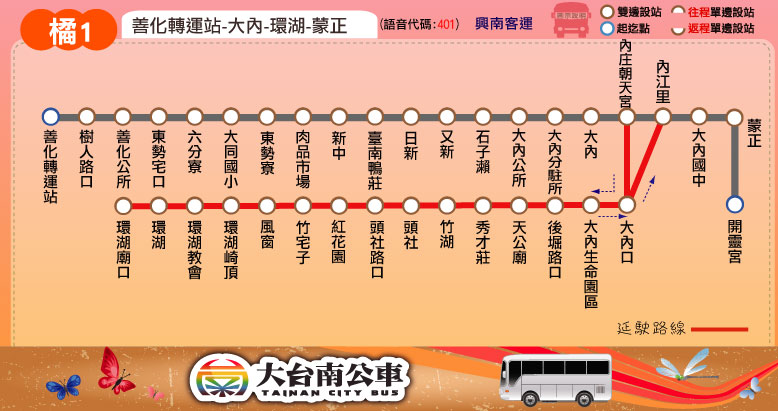
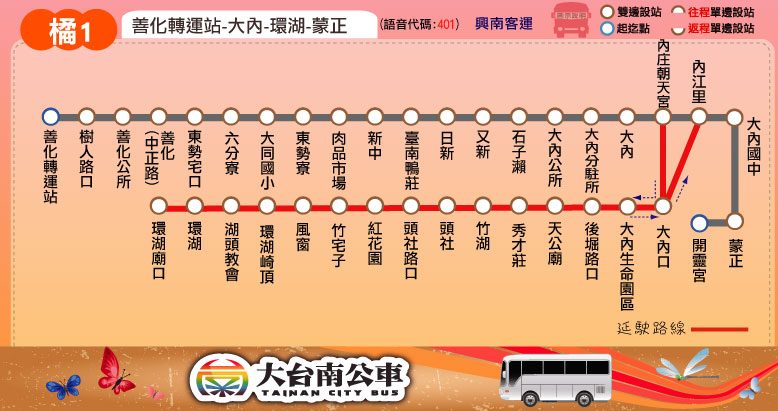
更新路線圖站位：橘1、橘20

Changed region(s): [[0.1234, 0.292, 0.9563, 0.7591], [0.7712, 0.0876, 0.9254, 0.2628], [0.9563, 0.292, 0.9871, 0.438]]

diff --git a/route/fare_and_time/orange_1.js b/route/fare_and_time/orange_1.js
@@ -1,20 +1,19 @@
 orange_1_interval_name = ["善化<br />轉運站","善化","六分寮","東勢寮","新中","日新","大內","頭社","環湖","頭社","大內","蒙正"];
 orange_1_interval_stop = [
 ["善化轉運站"], // 善化轉運站
-["樹人路口","善化公所"], // 善化
+["樹人路口","善化公所","善化(中正路)"], // 善化
 ["東勢宅口","六分寮","大同國小"], // 六分寮
 ["東勢寮"], // 東勢寮
 ["肉品市場","新中","臺南鴨莊"], // 新中
 ["日新","又新"], // 日新
 ["石子瀨","大內公所","大內分駐所","大內","內庄朝天宮","大內口","大內生命園區","後堀路口"], // 大內
 ["天公廟","秀才庄","竹湖","頭社","頭社路口"], // 頭社
-["紅花園","竹宅子","風窗","環湖崎頂","環湖教會","環湖","環湖廟口",
-"環湖","環湖教會","環湖崎頂","風窗","竹宅子","紅花園"], // 環湖
+["紅花園","竹宅子","風窗","環湖崎頂","湖頭教會","環湖","環湖廟口",
+"環湖","湖頭教會","環湖崎頂","風窗","竹宅子","紅花園"], // 環湖
 ["頭社路口","頭社","竹湖","秀才庄","天公廟"], // 頭社
-["後堀路口","內江里","大內國中"], // 大內
+["後堀路口","大內生命園區","大內口","內江里","大內國中"], // 大內
 ["蒙正","開靈宮"] // 蒙正
 ];
-orange_1_stop_time_consume = [0,1,2,7,11,12,14,18,20,23,24,26,28,29,30,30,31,32,33,34,37,40,41,42,43,44,46,48,50,51,52,54,55,56,57,58,59,60,63,66,67,68,71,73,74,75];
 orange_1_fare = [
 [26],
 [26,26],

diff --git a/route/fare_and_time/orange_11.js b/route/fare_and_time/orange_11.js
@@ -6,7 +6,7 @@ orange_11_interval_stop = [
 ["東勢","派出所","南安業"], // 安業
 ["後壁寮","謝厝寮"], // 謝厝寮
 ["太西","後營"], // 後營
-["西港國中","西港","南西港"], // 西港
+["西港里","西港國中","西港","南西港"], // 西港
 ["海寮"], // 海寮
 ["管寮"], // 管寮
 ["南安宮","油車","安定納骨塔"], // 南安
